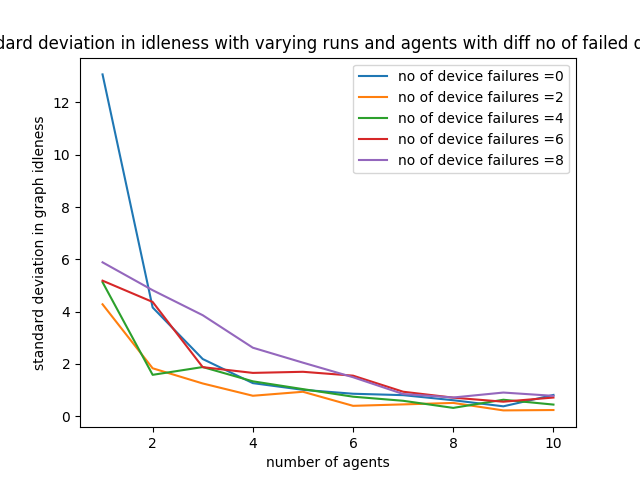
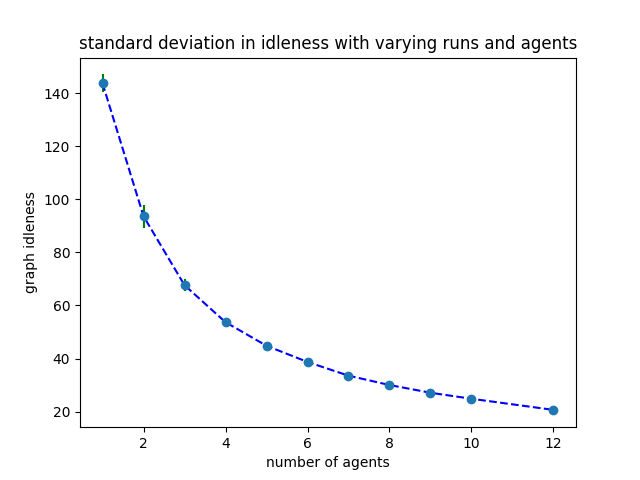
std done

diff --git a/conscientious_reactive/dual_failure_random_dead/graphsmaker/standard_deviation_graphs.py b/conscientious_reactive/dual_failure_random_dead/graphsmaker/standard_deviation_graphs.py
@@ -9,16 +9,15 @@ cars = [1,2,3,4,5,6,7,8,9,10,12]
 deads = [0]#,5,12,20,25]
 num_runs = 8
 plt.figure()
-
+avg = []
+std = []
 for dead in deads:
-	avg = []
-	std = []
 	for car in cars:
 		path = rootdir+'cr'+str(car)+'/'+str(dead)+'devices_failed/'
 		runs = []
 		instantaneous_node_idleness =[]
 		for i in range(num_runs):
-			print(path+'run'+str(i)+'/run.xlsx')
+			#print(path+'run'+str(i)+'/run.xlsx')
 			runs.append(np.array(pd.read_excel(pd.ExcelFile(path+'run'+str(i)+'/run.xlsx'))))
 			runs[i] = runs[i][500:][:,1:]
 			instantaneous_node_idleness.append(np.mean(runs[i],axis=1))
@@ -26,17 +25,17 @@ for dead in deads:
 		avg.append(np.mean(graph_idlness))
 		std.append(np.std(graph_idlness))
 	print(std)
-	plt.plot(cars, std)#, label ="no of device failures ="+str(dead))
+	#plt.errorbar(car, avg,yerr=std,  fmt='o', ecolor='g', capthick=1.0)
 	plt.draw()
 
-# plt.plot(cars, avg, 'b--')
+plt.plot(cars, avg, 'b--')
 # for i in range(len(avgs)):
 # 	plt.plot(cars, avgs[i], label ="no of device failures ="+str(i*2))
-# plt.errorbar(cars, avg,yerr=std,  fmt='o', ecolor='g', capthick=1.0)
+plt.errorbar(cars, avg,yerr=std,  fmt='o', ecolor='g', capthick=1.0)
 plt.title("standard deviation in idleness with varying runs and agents")
 plt.xlabel("number of agents")
-plt.ylabel("standard deviation in graph idleness")
-plt.legend()
+plt.ylabel("graph idleness")
+#plt.legend()
 # plt.show()
 plt.savefig('std_deviations.png', dpi = 100)
 # plt.savefig('dead'+str(dead)+'_new.png', dpi = 100)
